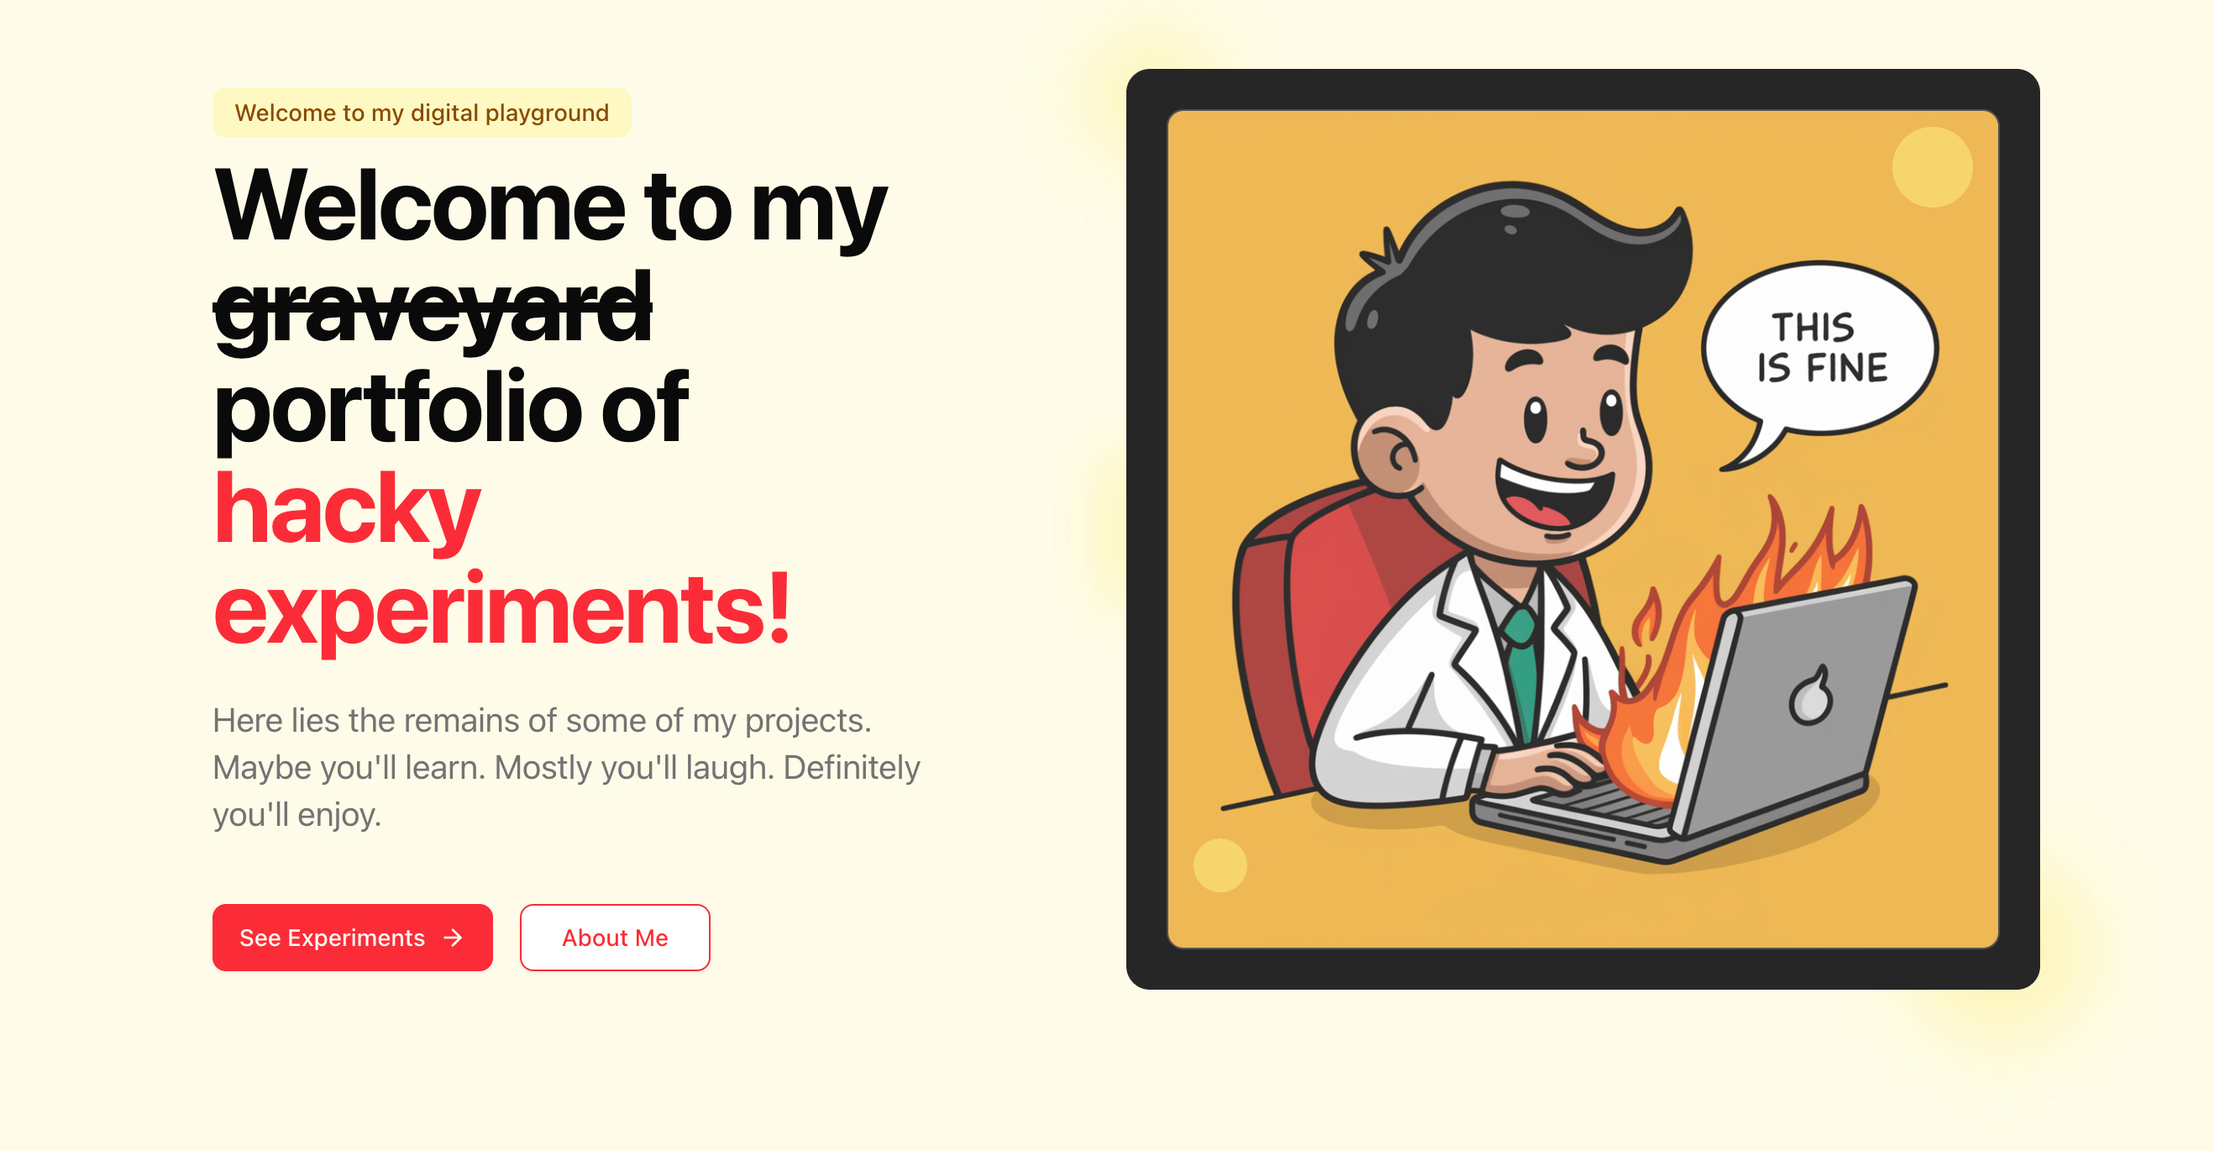
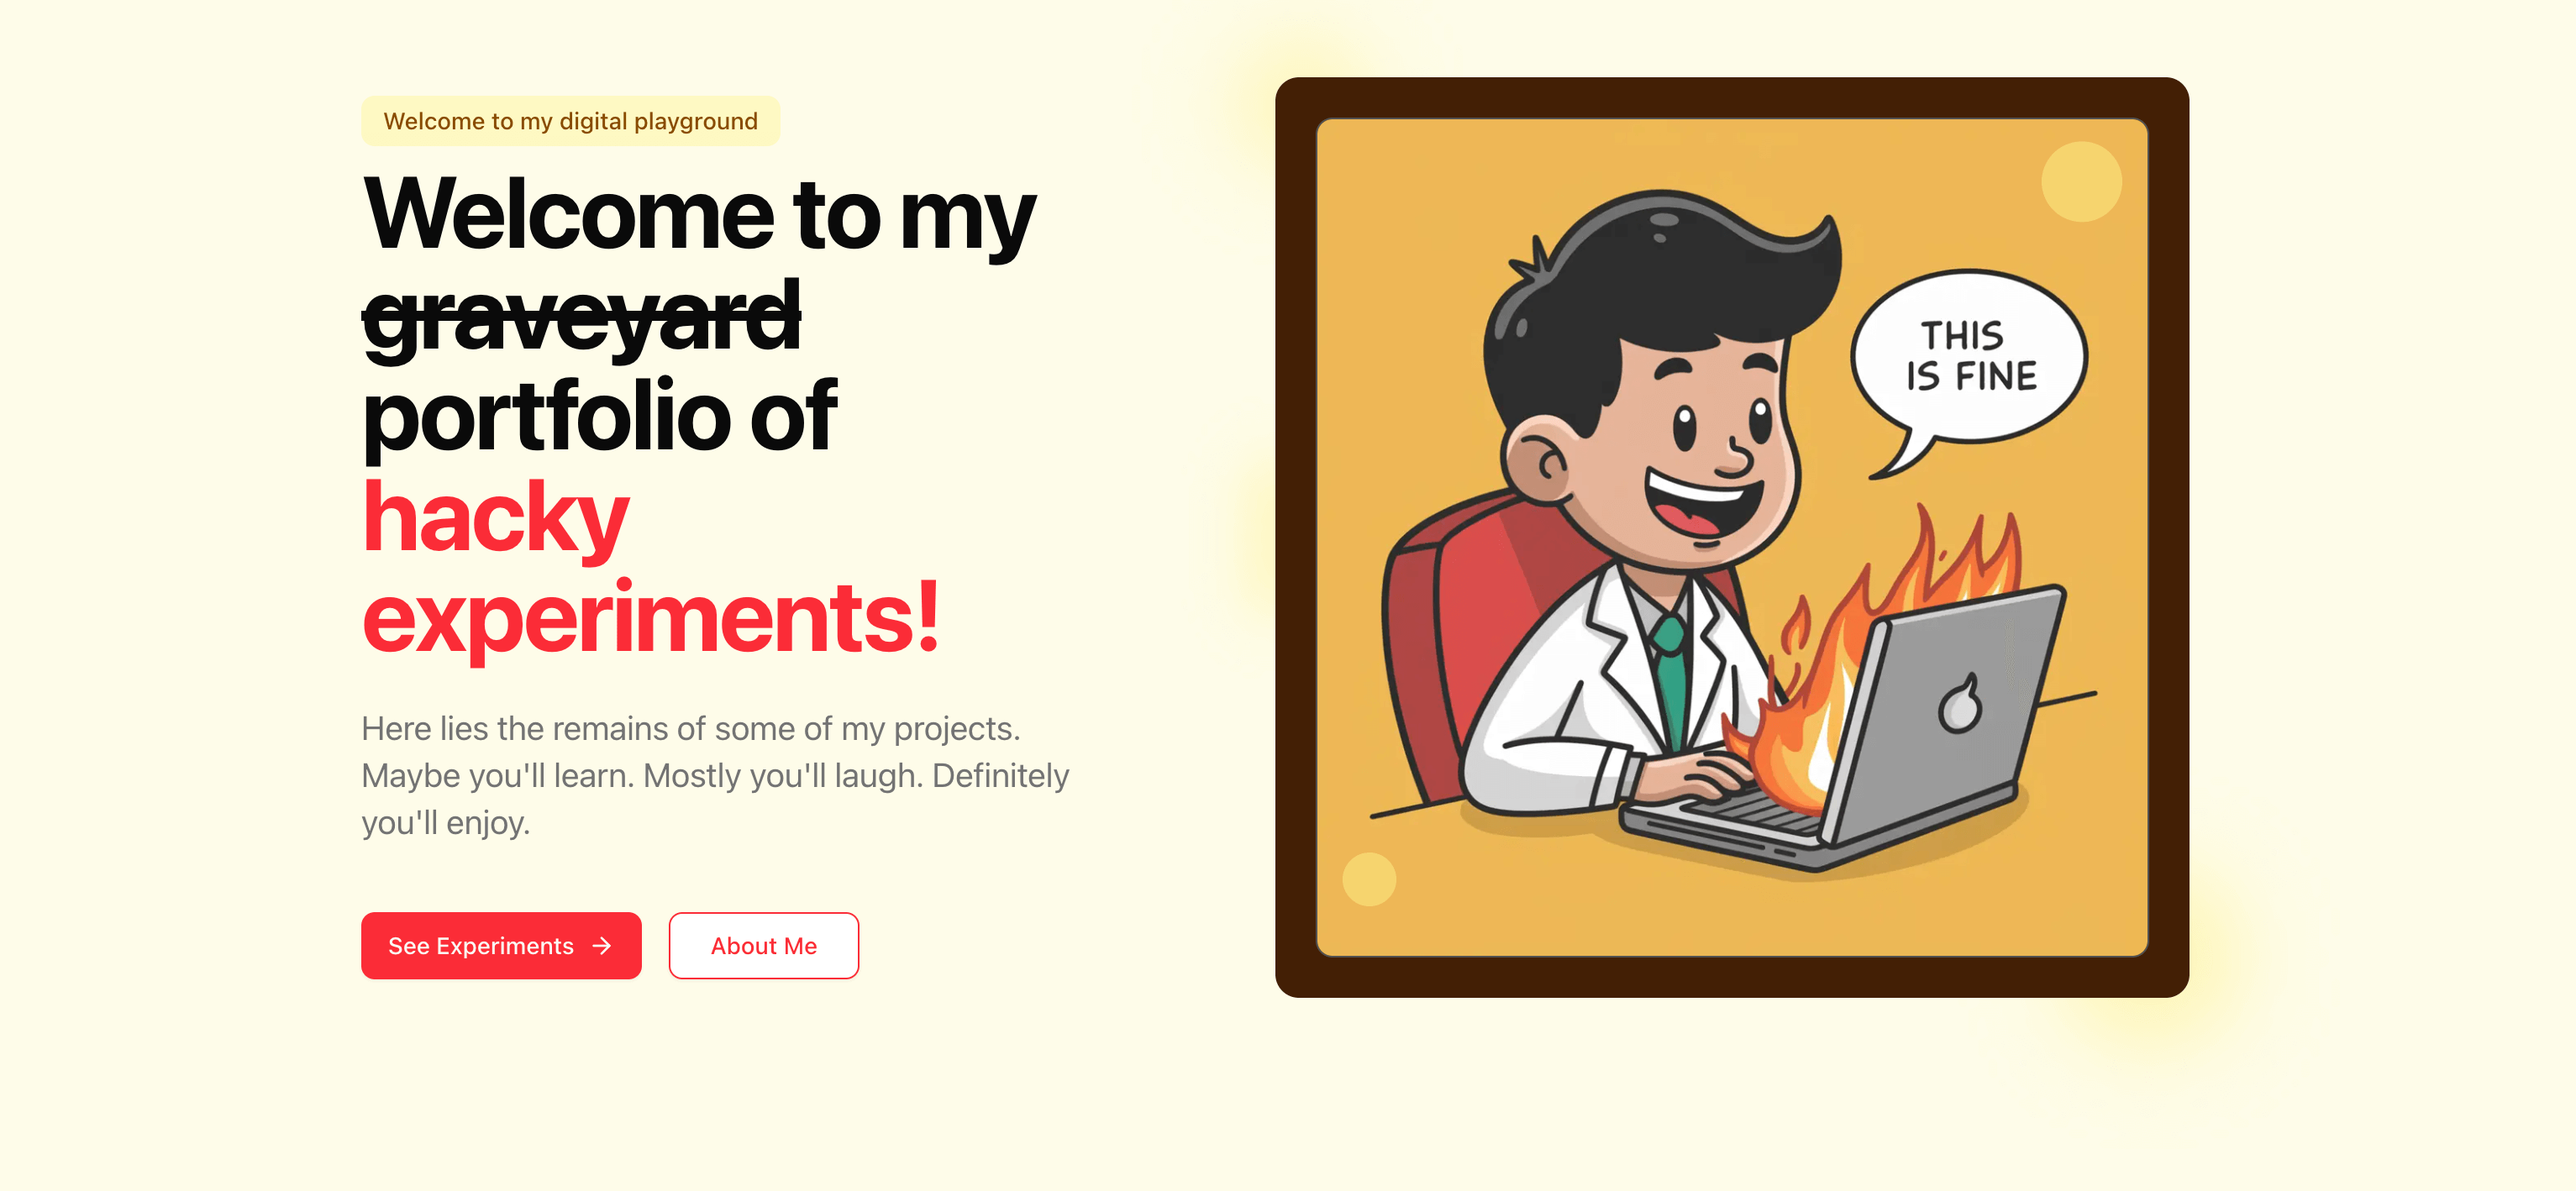
og2

diff --git a/app/page.tsx b/app/page.tsx
@@ -87,7 +87,7 @@ export default function Home() {
             </div>
 
             {/* Main image with softer background */}
-            <div className='relative bg-neutral-800 backdrop-blur-sm rounded-xl overflow-hidden p-6'>
+            <div className='relative bg-yellow-950 backdrop-blur-sm rounded-xl overflow-hidden p-6'>
               {/* Hero image */}
               <Image
                 alt='Hacky experiments illustration'
